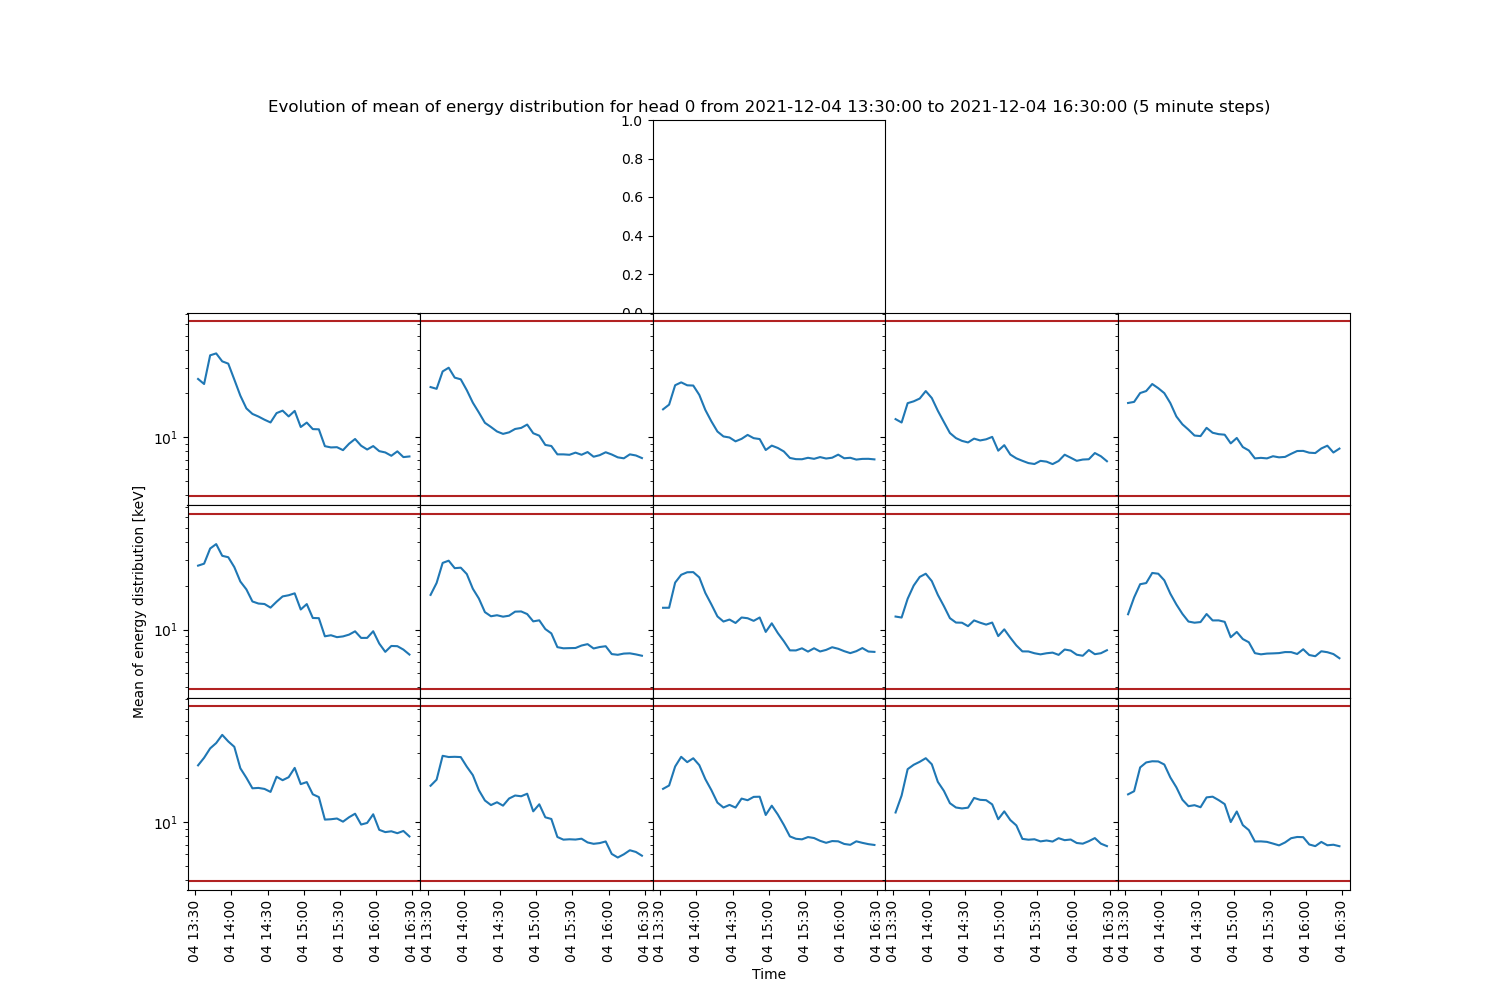
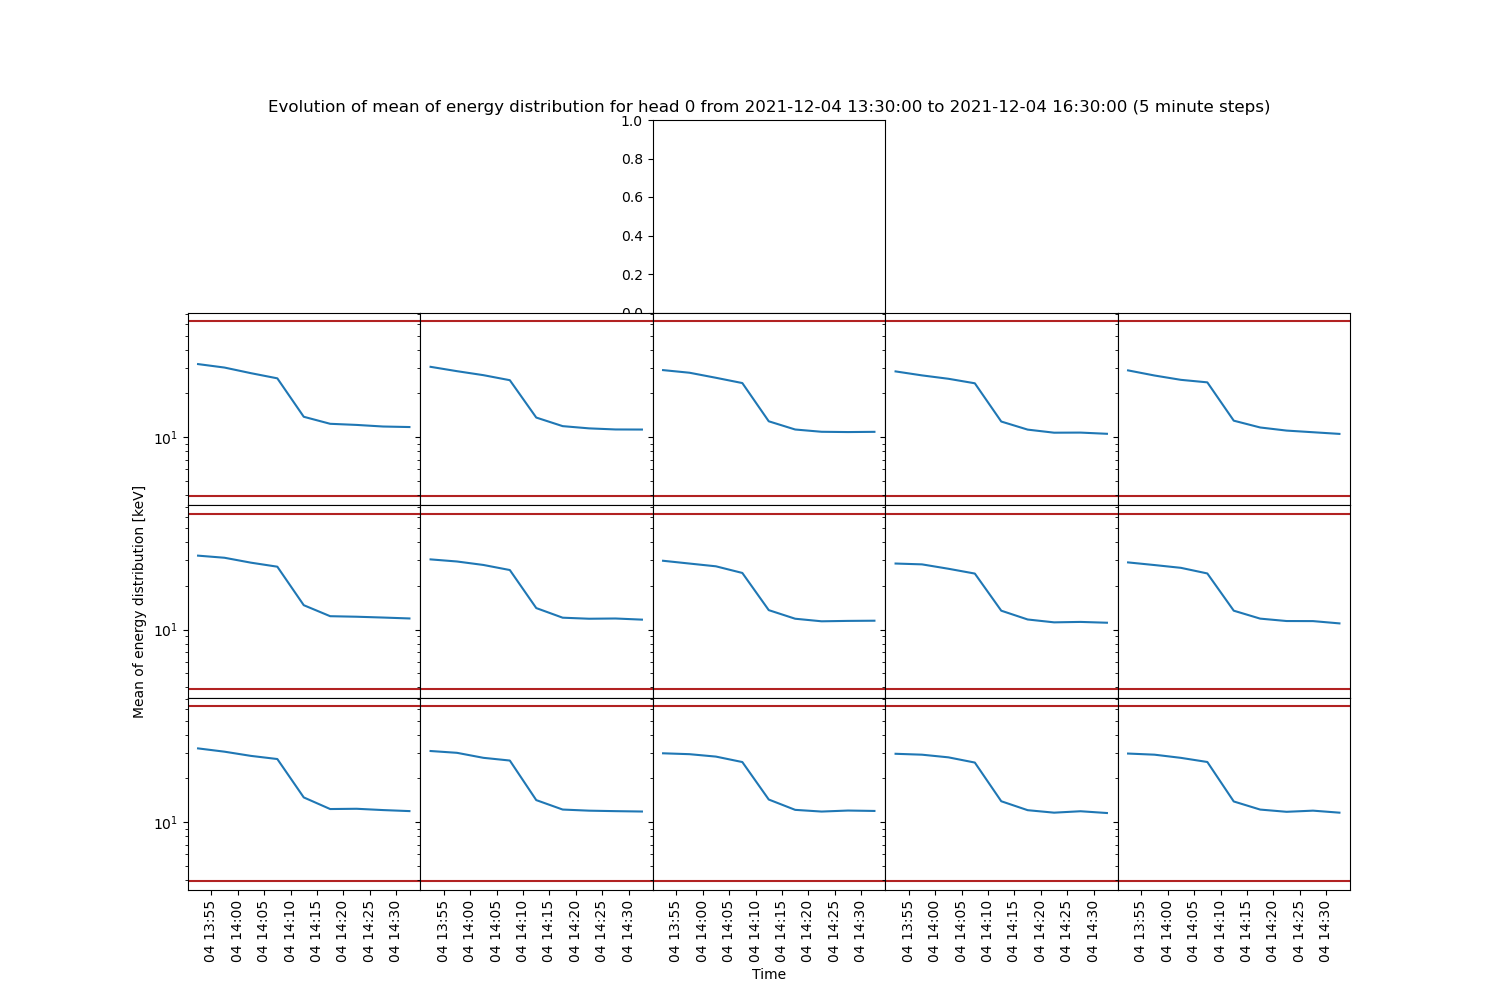
Werkzeuge funktionieren

diff --git a/analyze_nom_II.py b/analyze_nom_II.py
@@ -27,7 +27,7 @@ hmap = mpl.cm.seismic
 class STEP:
     '''Lädt STEP-Daten zur anschließenden Analyse'''
 
-    def __init__(self,rpath,year,month,day,lastofmonth=False):
+    def __init__(self,year,month,day,rpath = '/data/projects/solo/step_v0008/',lastofmonth=False):
         # Loading data
         if lastofmonth:
             if month!=12:
@@ -392,13 +392,11 @@ class STEP:
             pldat = self.data_prep(ebins,res,head,period,norm,overflow,esquare)[0]
 
         while (period[0] + dt.timedelta(minutes=(i+1)*window_width)) <= period[1]:
-            window = [period[0] + dt.timedelta(minutes=i*window_width), period[0] + dt.timedelta(minutes=(i+1)*window_width)]
-
             pixel_means[0].append(period[0] + dt.timedelta(minutes=(i+0.5)*window_width))
             
             # Berechnung der Mittelwerte:
             for k in range(1,16):
-                pdat = pldat[k]
+                pdat = pldat[k][i*window_width:(i+1)*window_width]
                 integral = np.sum(pdat,axis=0)
                 # calculating mean
                 mean = 0.0

diff --git a/analyze_data.py b/analyze_data.py
@@ -6,7 +6,8 @@ import datetime as dt
 
 from analyze_nom_II import STEP
 
-dat = STEP('data/',2021,12,4)
+# dat = STEP(2021,12,4,rpath='data/')
+dat = STEP(2021,12,4)
 
 box_list = [[[20,40],[25,35]],[[40,60],[15,25]]]
 
@@ -15,7 +16,7 @@ box_list = [[[20,40],[25,35]],[[40,60],[15,25]]]
 # dat.fit_energy(pixel=4,norm='tmax',save='analyze/',period=[dt.datetime(2021,12,4,13,30),dt.datetime(2021,12,4,16,30)],fit=True,p0=[17500,1,-10,0])
 
 # dat.pixel_integral_window(filename='test.png',norm='tmax',save='etracks/',period=[dt.datetime(2021,12,4,14,30),dt.datetime(2021,12,4,14,35)])
-dat.evolution_energy_means(filename='test_evolution.png',norm='tmax',save='etracks/',period=[dt.datetime(2021,12,4,13,30),dt.datetime(2021,12,4,16,30)],box_list=box_list)
+dat.evolution_energy_means_new(filename='test_evolution.png',norm='tmax',save='etracks/',period=[dt.datetime(2021,12,4,13,30),dt.datetime(2021,12,4,16,30)],box_list=box_list)
 dat.plot_ts(period=[dt.datetime(2021,12,4,13,30),dt.datetime(2021,12,4,16,30)], head=0, save='etracks/', norm='tmax',box_list=box_list)
 
 
